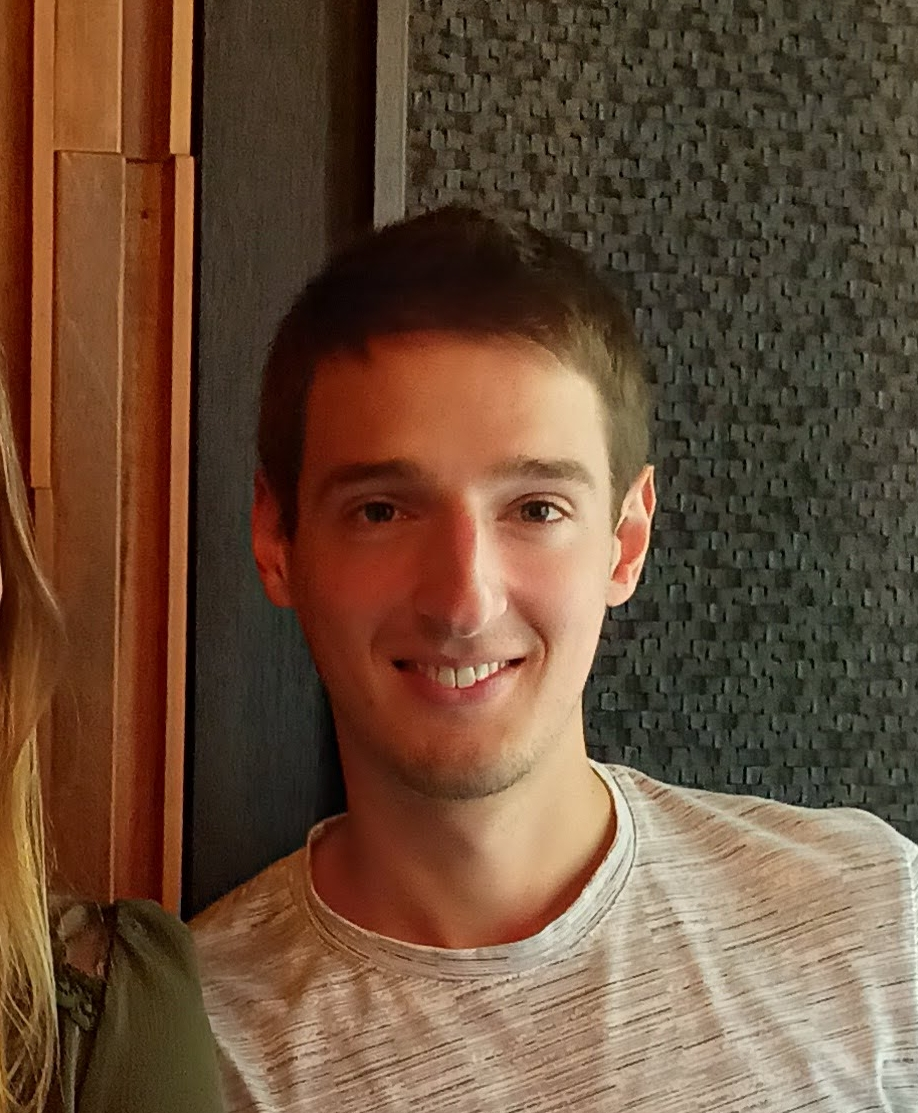
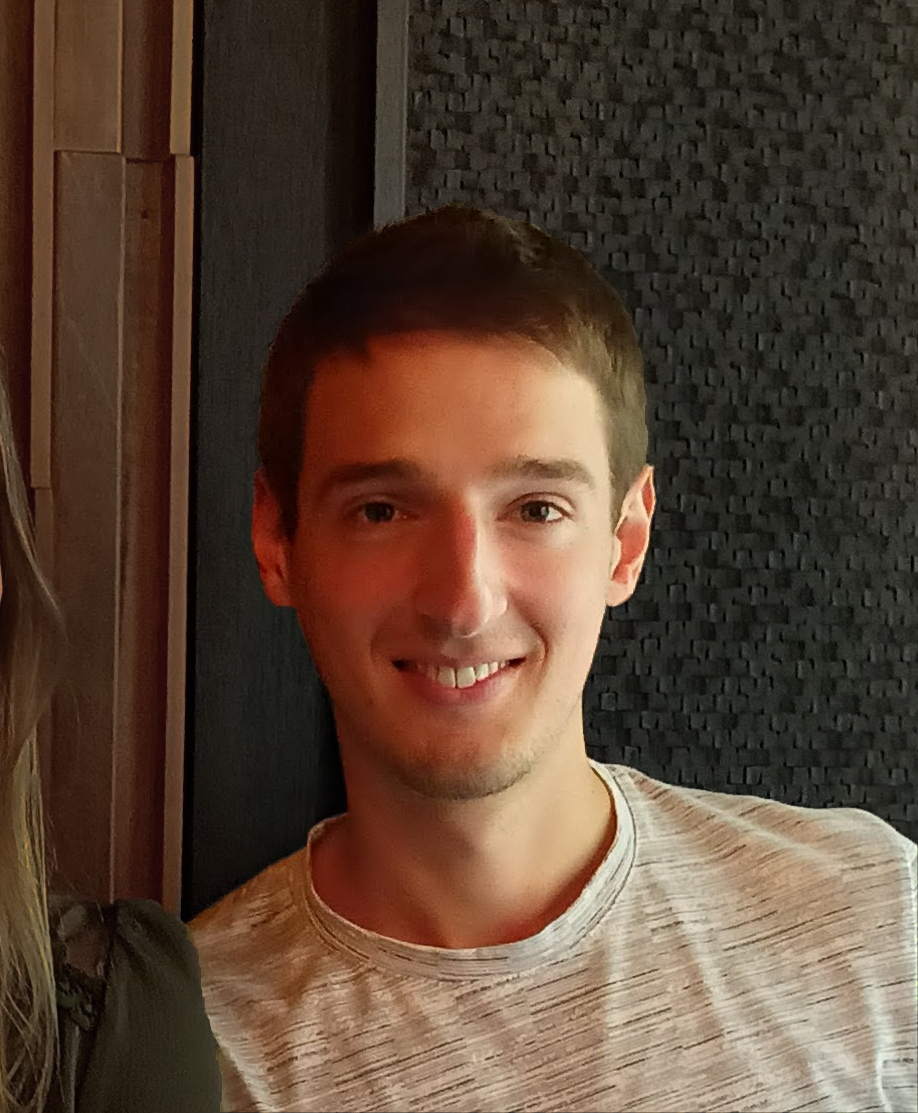
Update image

diff --git a/project/fault_detection_in_a_3d_seismic_volume/fault_detection_in_a_3d_seismic_volume/index.html b/project/fault_detection_in_a_3d_seismic_volume/fault_detection_in_a_3d_seismic_volume/index.html
@@ -917,7 +917,7 @@ The goal of this challenge was to detect and segment faults (curved surfaces) fr
   <div class="media author-card content-widget-hr">
     
       
-      <a href="/"><img class="avatar mr-3 avatar-circle" src="/author/matthieu-zins/avatar_hue9339834e0cd05cfc83537152d423674_702120_270x270_fill_q90_lanczos_center.jpg" alt="Matthieu Zins"></a>
+      <a href="/"><img class="avatar mr-3 avatar-circle" src="/author/matthieu-zins/avatar_hucb02cfb166cac22b9a7bc5c1fcc304a6_809292_270x270_fill_q90_lanczos_center.jpg" alt="Matthieu Zins"></a>
     
 
     <div class="media-body">

diff --git a/publication/core3d/index.html b/publication/core3d/index.html
@@ -1029,7 +1029,7 @@
   <div class="media author-card content-widget-hr">
     
       
-      <a href="/"><img class="avatar mr-3 avatar-circle" src="/author/matthieu-zins/avatar_hue9339834e0cd05cfc83537152d423674_702120_270x270_fill_q90_lanczos_center.jpg" alt="Matthieu Zins"></a>
+      <a href="/"><img class="avatar mr-3 avatar-circle" src="/author/matthieu-zins/avatar_hucb02cfb166cac22b9a7bc5c1fcc304a6_809292_270x270_fill_q90_lanczos_center.jpg" alt="Matthieu Zins"></a>
     
 
     <div class="media-body">

diff --git a/accomplishment/fault_detection_in_a_3d_seismic_volume/fault_detection_in_a_3d_seismic_volume/index.html b/accomplishment/fault_detection_in_a_3d_seismic_volume/fault_detection_in_a_3d_seismic_volume/index.html
@@ -875,7 +875,7 @@
   <div class="media author-card content-widget-hr">
     
       
-      <a href="/"><img class="avatar mr-3 avatar-circle" src="/author/matthieu-zins/avatar_hue9339834e0cd05cfc83537152d423674_702120_270x270_fill_q90_lanczos_center.jpg" alt="Matthieu Zins"></a>
+      <a href="/"><img class="avatar mr-3 avatar-circle" src="/author/matthieu-zins/avatar_hucb02cfb166cac22b9a7bc5c1fcc304a6_809292_270x270_fill_q90_lanczos_center.jpg" alt="Matthieu Zins"></a>
     
 
     <div class="media-body">

diff --git a/post/my-article-name/index.html b/post/my-article-name/index.html
@@ -865,7 +865,7 @@
   <div class="media author-card content-widget-hr">
     
       
-      <a href="/"><img class="avatar mr-3 avatar-circle" src="/author/matthieu-zins/avatar_hue9339834e0cd05cfc83537152d423674_702120_270x270_fill_q90_lanczos_center.jpg" alt="Matthieu Zins"></a>
+      <a href="/"><img class="avatar mr-3 avatar-circle" src="/author/matthieu-zins/avatar_hucb02cfb166cac22b9a7bc5c1fcc304a6_809292_270x270_fill_q90_lanczos_center.jpg" alt="Matthieu Zins"></a>
     
 
     <div class="media-body">

diff --git a/publication/3dv/index.html b/publication/3dv/index.html
@@ -995,7 +995,7 @@
   <div class="media author-card content-widget-hr">
     
       
-      <a href="/"><img class="avatar mr-3 avatar-circle" src="/author/matthieu-zins/avatar_hue9339834e0cd05cfc83537152d423674_702120_270x270_fill_q90_lanczos_center.jpg" alt="Matthieu Zins"></a>
+      <a href="/"><img class="avatar mr-3 avatar-circle" src="/author/matthieu-zins/avatar_hucb02cfb166cac22b9a7bc5c1fcc304a6_809292_270x270_fill_q90_lanczos_center.jpg" alt="Matthieu Zins"></a>
     
 
     <div class="media-body">

diff --git a/publication/ijcv/index.html b/publication/ijcv/index.html
@@ -995,7 +995,7 @@
   <div class="media author-card content-widget-hr">
     
       
-      <a href="/"><img class="avatar mr-3 avatar-circle" src="/author/matthieu-zins/avatar_hue9339834e0cd05cfc83537152d423674_702120_270x270_fill_q90_lanczos_center.jpg" alt="Matthieu Zins"></a>
+      <a href="/"><img class="avatar mr-3 avatar-circle" src="/author/matthieu-zins/avatar_hucb02cfb166cac22b9a7bc5c1fcc304a6_809292_270x270_fill_q90_lanczos_center.jpg" alt="Matthieu Zins"></a>
     
 
     <div class="media-body">

diff --git a/publication/iros/index.html b/publication/iros/index.html
@@ -999,7 +999,7 @@
   <div class="media author-card content-widget-hr">
     
       
-      <a href="/"><img class="avatar mr-3 avatar-circle" src="/author/matthieu-zins/avatar_hue9339834e0cd05cfc83537152d423674_702120_270x270_fill_q90_lanczos_center.jpg" alt="Matthieu Zins"></a>
+      <a href="/"><img class="avatar mr-3 avatar-circle" src="/author/matthieu-zins/avatar_hucb02cfb166cac22b9a7bc5c1fcc304a6_809292_270x270_fill_q90_lanczos_center.jpg" alt="Matthieu Zins"></a>
     
 
     <div class="media-body">

diff --git a/publication/ismar/index.html b/publication/ismar/index.html
@@ -997,7 +997,7 @@
   <div class="media author-card content-widget-hr">
     
       
-      <a href="/"><img class="avatar mr-3 avatar-circle" src="/author/matthieu-zins/avatar_hue9339834e0cd05cfc83537152d423674_702120_270x270_fill_q90_lanczos_center.jpg" alt="Matthieu Zins"></a>
+      <a href="/"><img class="avatar mr-3 avatar-circle" src="/author/matthieu-zins/avatar_hucb02cfb166cac22b9a7bc5c1fcc304a6_809292_270x270_fill_q90_lanczos_center.jpg" alt="Matthieu Zins"></a>
     
 
     <div class="media-body">

diff --git a/publication/masterthesis/index.html b/publication/masterthesis/index.html
@@ -993,7 +993,7 @@
   <div class="media author-card content-widget-hr">
     
       
-      <a href="/"><img class="avatar mr-3 avatar-circle" src="/author/matthieu-zins/avatar_hue9339834e0cd05cfc83537152d423674_702120_270x270_fill_q90_lanczos_center.jpg" alt="Matthieu Zins"></a>
+      <a href="/"><img class="avatar mr-3 avatar-circle" src="/author/matthieu-zins/avatar_hucb02cfb166cac22b9a7bc5c1fcc304a6_809292_270x270_fill_q90_lanczos_center.jpg" alt="Matthieu Zins"></a>
     
 
     <div class="media-body">

diff --git a/talk/circle-finder/index.html b/talk/circle-finder/index.html
@@ -947,7 +947,7 @@
   <div class="media author-card content-widget-hr">
     
       
-      <a href="/"><img class="avatar mr-3 avatar-circle" src="/author/matthieu-zins/avatar_hue9339834e0cd05cfc83537152d423674_702120_270x270_fill_q90_lanczos_center.jpg" alt="Matthieu Zins"></a>
+      <a href="/"><img class="avatar mr-3 avatar-circle" src="/author/matthieu-zins/avatar_hucb02cfb166cac22b9a7bc5c1fcc304a6_809292_270x270_fill_q90_lanczos_center.jpg" alt="Matthieu Zins"></a>
     
 
     <div class="media-body">

diff --git a/talk/gfu00/index.html b/talk/gfu00/index.html
@@ -951,7 +951,7 @@
   <div class="media author-card content-widget-hr">
     
       
-      <a href="/"><img class="avatar mr-3 avatar-circle" src="/author/matthieu-zins/avatar_hue9339834e0cd05cfc83537152d423674_702120_270x270_fill_q90_lanczos_center.jpg" alt="Matthieu Zins"></a>
+      <a href="/"><img class="avatar mr-3 avatar-circle" src="/author/matthieu-zins/avatar_hucb02cfb166cac22b9a7bc5c1fcc304a6_809292_270x270_fill_q90_lanczos_center.jpg" alt="Matthieu Zins"></a>
     
 
     <div class="media-body">

diff --git a/talk/gfu01/index.html b/talk/gfu01/index.html
@@ -937,7 +937,7 @@
   <div class="media author-card content-widget-hr">
     
       
-      <a href="/"><img class="avatar mr-3 avatar-circle" src="/author/matthieu-zins/avatar_hue9339834e0cd05cfc83537152d423674_702120_270x270_fill_q90_lanczos_center.jpg" alt="Matthieu Zins"></a>
+      <a href="/"><img class="avatar mr-3 avatar-circle" src="/author/matthieu-zins/avatar_hucb02cfb166cac22b9a7bc5c1fcc304a6_809292_270x270_fill_q90_lanczos_center.jpg" alt="Matthieu Zins"></a>
     
 
     <div class="media-body">
